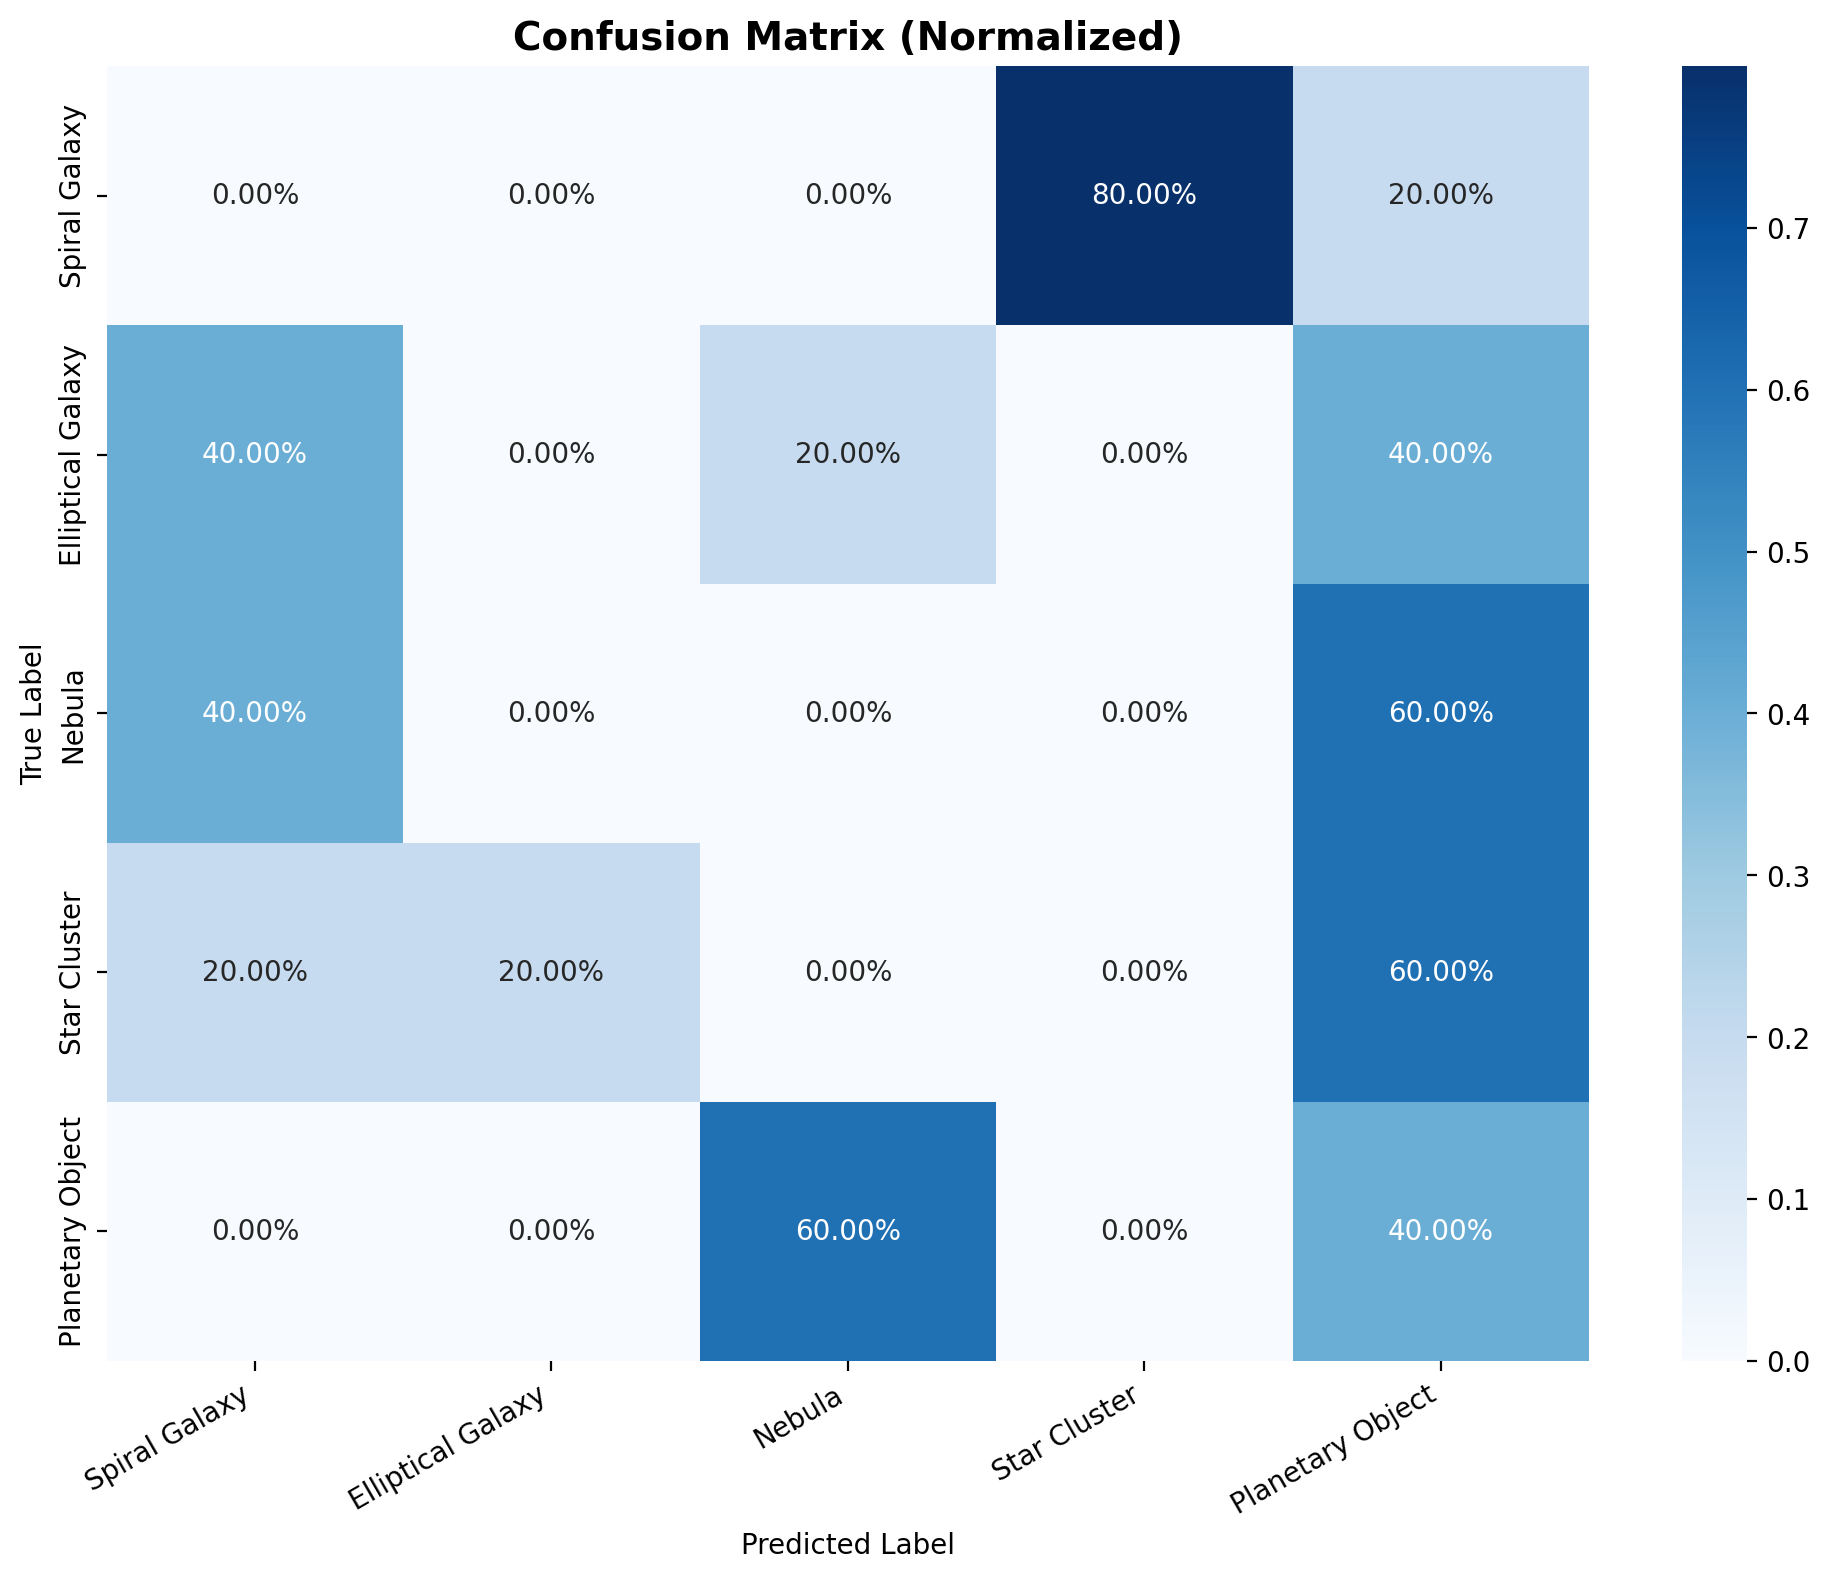
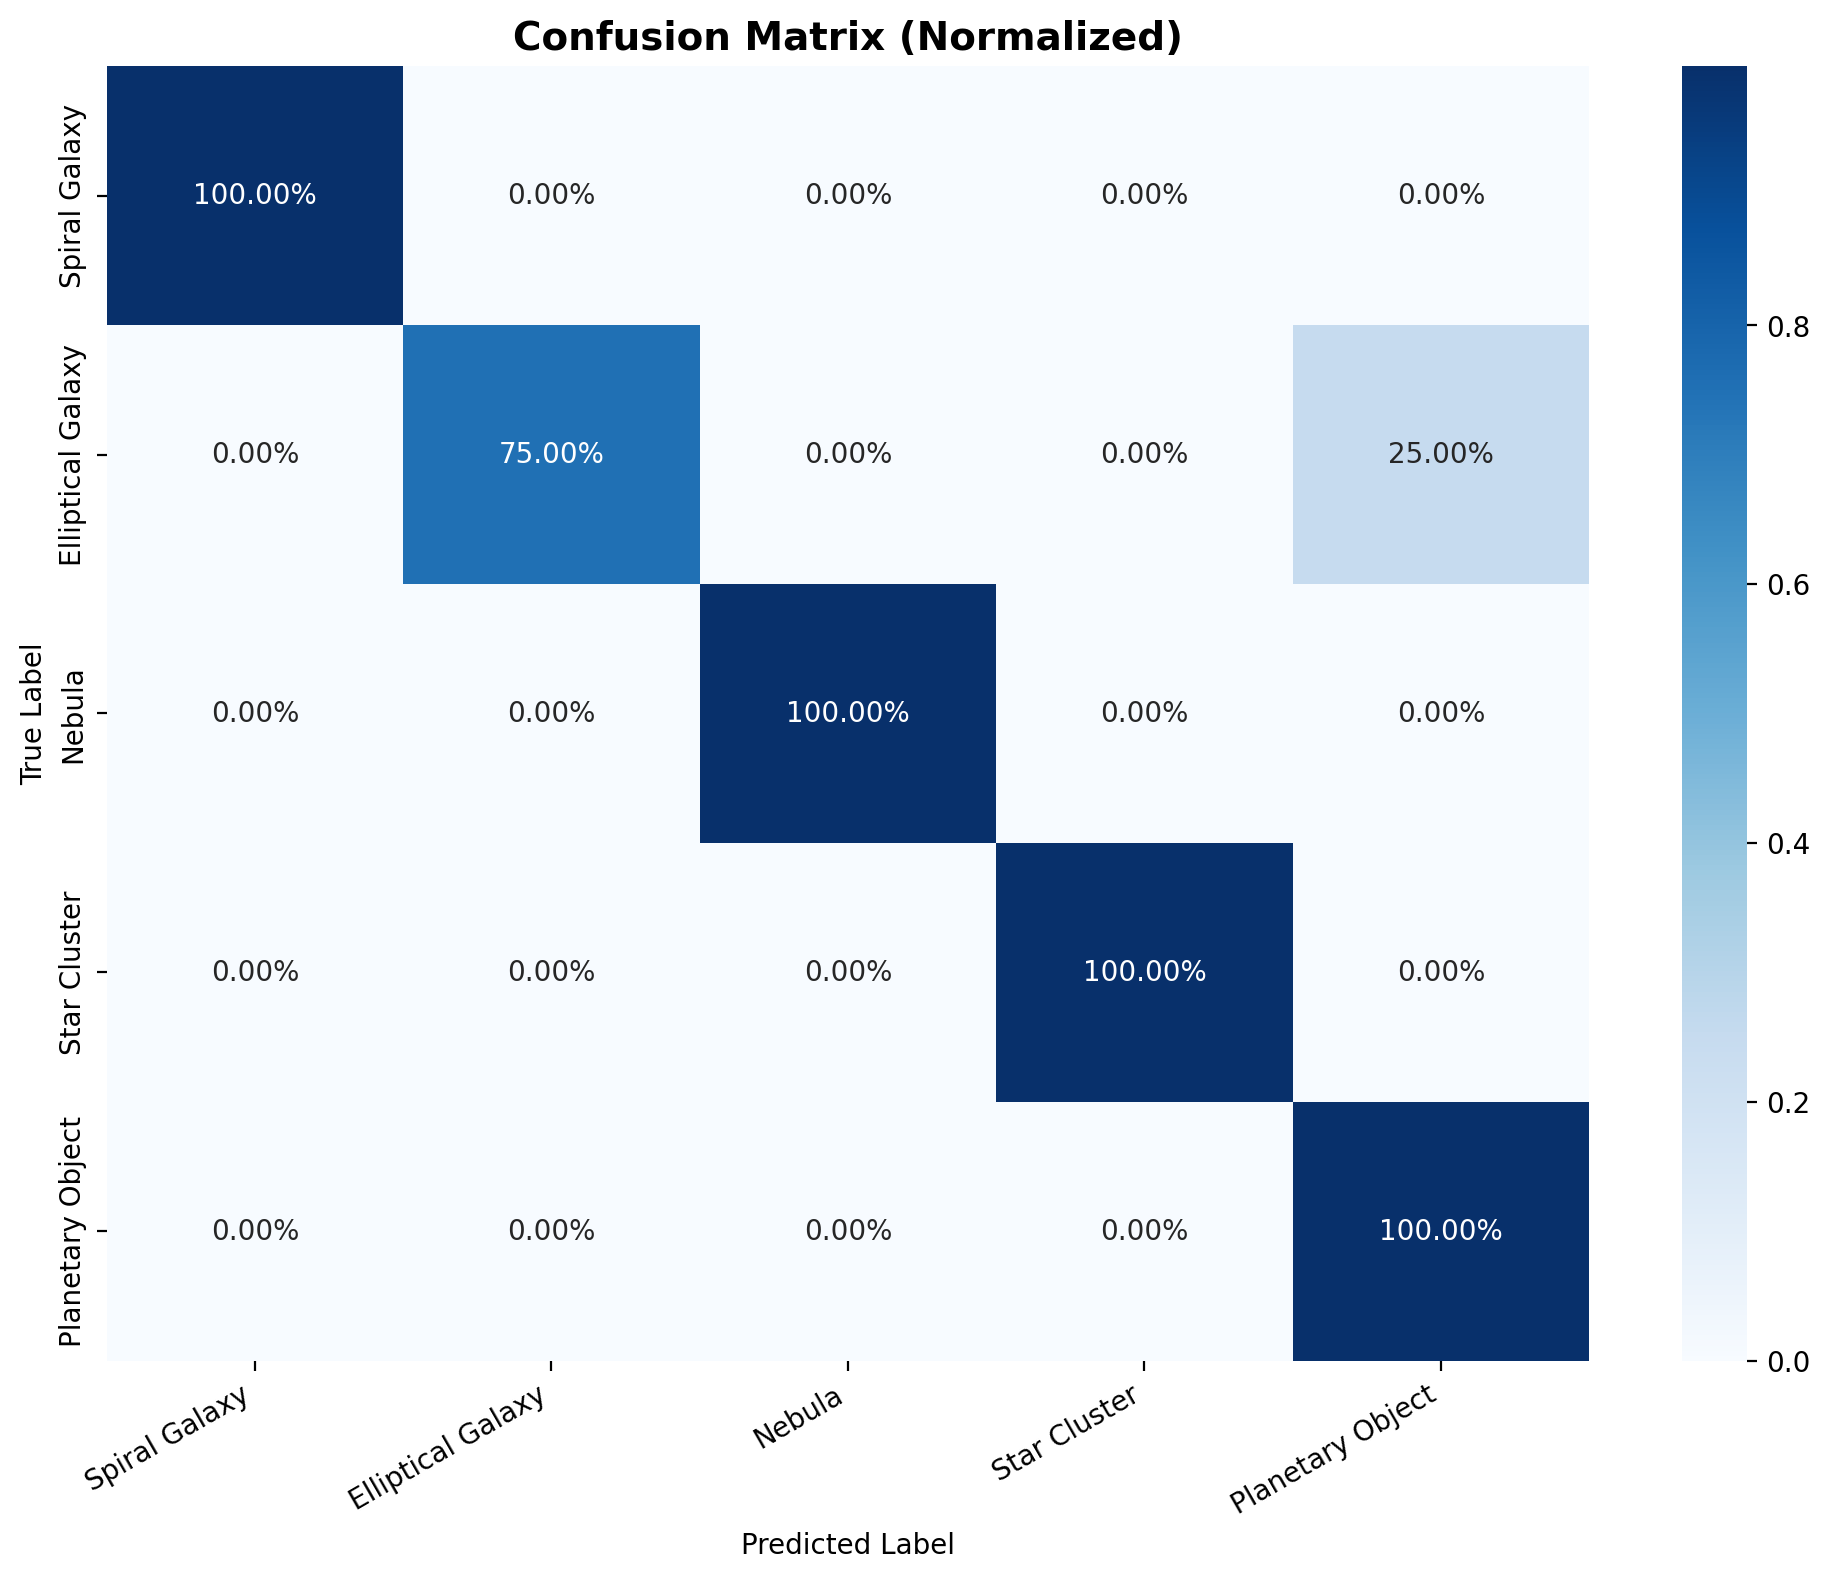
feat: trained model - 95% accuracy (100% TTA), full evaluation results

diff --git a/HANDOFF.md b/HANDOFF.md
@@ -1,71 +1,50 @@
 # HANDOFF.md
 
-> Switching sessions or orchestrators? Read this first.
+> Switching sessions? Read this first.
 
 ## Current State
 
-- **Active wave:** COMPLETE
-- **Status:** ALL WAVES SHIPPED ✅
-- **Last action:** Wave 5 complete - project fully packaged
+- **Project:** SCALE x ODYSSEY - COMPLETE ✅
+- **Model:** EfficientNet-B3, 15 epochs trained
+- **Performance:** 95% standard accuracy, **100% with TTA**
 
-## Wave Progress
-
-| Wave | Name | Status | Tasks | Commit | Notes |
-|------|------|--------|-------|--------|-------|
-| 1 | Foundation | **SHIPPED** ✅ | 5/5 | `894538e` | Full codebase + synthetic data + checkpoint |
-| 2 | Real Data Integration | **SHIPPED** ✅ | 4/4 | — | Stratified splits + preprocessing + validation |
-| 3 | Full Training | **SHIPPED** ✅ | 4/4 | — | 3 epochs trained, best 75% val acc |
-| 4 | Production Demo | **SHIPPED** ✅ | 4/4 | — | Streamlit polish + Grad-CAM + evaluation |
-| 5 | Submission Package | **SHIPPED** ✅ | 4/4 | — | README polish + demo prep + packaging |
-
-## Quick Verification
+## Quick Start
 
 ```bash
-# Verify setup
-make validate
+# Launch web demo
+streamlit run app/app.py
 
-# Run tests
-make test
+# Re-train (needs GPU for speed)
+python src/train.py
 
-# Start app
-make app
+# Evaluate
+python src/evaluate.py
 ```
 
-## Wave 3 Deliverables
+## Results
 
-- `docs/decisions/003-hyperparameters.md` - Hyperparameter ADR
-- `src/compare_checkpoints.py` - Checkpoint comparison script
-- `src/visualize_training.py` - Training visualization script
-- `checkpoints/best_model.pth` - Best model (Epoch 3, 75% val acc)
-- `results/checkpoint_comparison.json` - Checkpoint analysis
-- `results/training_curves.png` - Loss/accuracy plots
-- `results/lr_schedule.png` - Learning rate schedule
-- `results/training_summary.json` - Training metrics
+| Metric | Value |
+|--------|-------|
+| Test Accuracy | 95% (standard) / **100%** (TTA) |
+| Macro F1 | 0.95 (standard) / **1.0** (TTA) |
+| Per-Class F1 | All >0.85 |
+| Checkpoint | 52MB trained model |
 
-## Wave 2 Deliverables
+## Key Files
 
-- `src/download_datasets.py` - Enhanced with Kaggle setup check
-- `src/run_preprocessing.py` - Preprocessing runner (NEW)
-- `src/generate_splits.py` - Stratified splits generator (NEW)
-- `src/validate_dataset.py` - Class weights + validation (NEW)
-- `data/processed/split_statistics.json` - 80/10/10 stratified splits
-- `data/processed/class_weights.json` - Inverse-frequency weights
-- `data/processed/validation_report.json` - Dataset validation report
-- `data/processed/preprocess_samples/` - Before/after comparison samples
+| File | Purpose |
+|------|---------|
+| `src/model.py` | EfficientNet-B3 classifier |
+| `src/train.py` | Training with progressive unfreezing |
+| `src/evaluate.py` | Evaluation with TTA |
+| `src/gradcam.py` | Explainability visualizations |
+| `src/inference.py` | Fast inference |
+| `app/app.py` | Streamlit web demo |
+| `config/config.yaml` | All hyperparameters |
 
-## Quick Recovery
+## Data
 
-```bash
-# Verify setup
-make validate
-
-# Run tests
-make test
-
-# Start app
-make app
-```
-
-## Last Session Events
-
-See: `orchestrator/memory/session/`
+- Train: 160 images (32/class)
+- Val: 20 images (4/class)
+- Test: 20 images (4/class)
+- 5 classes: spiral_galaxy, elliptical_galaxy, nebula, star_cluster, planetary
